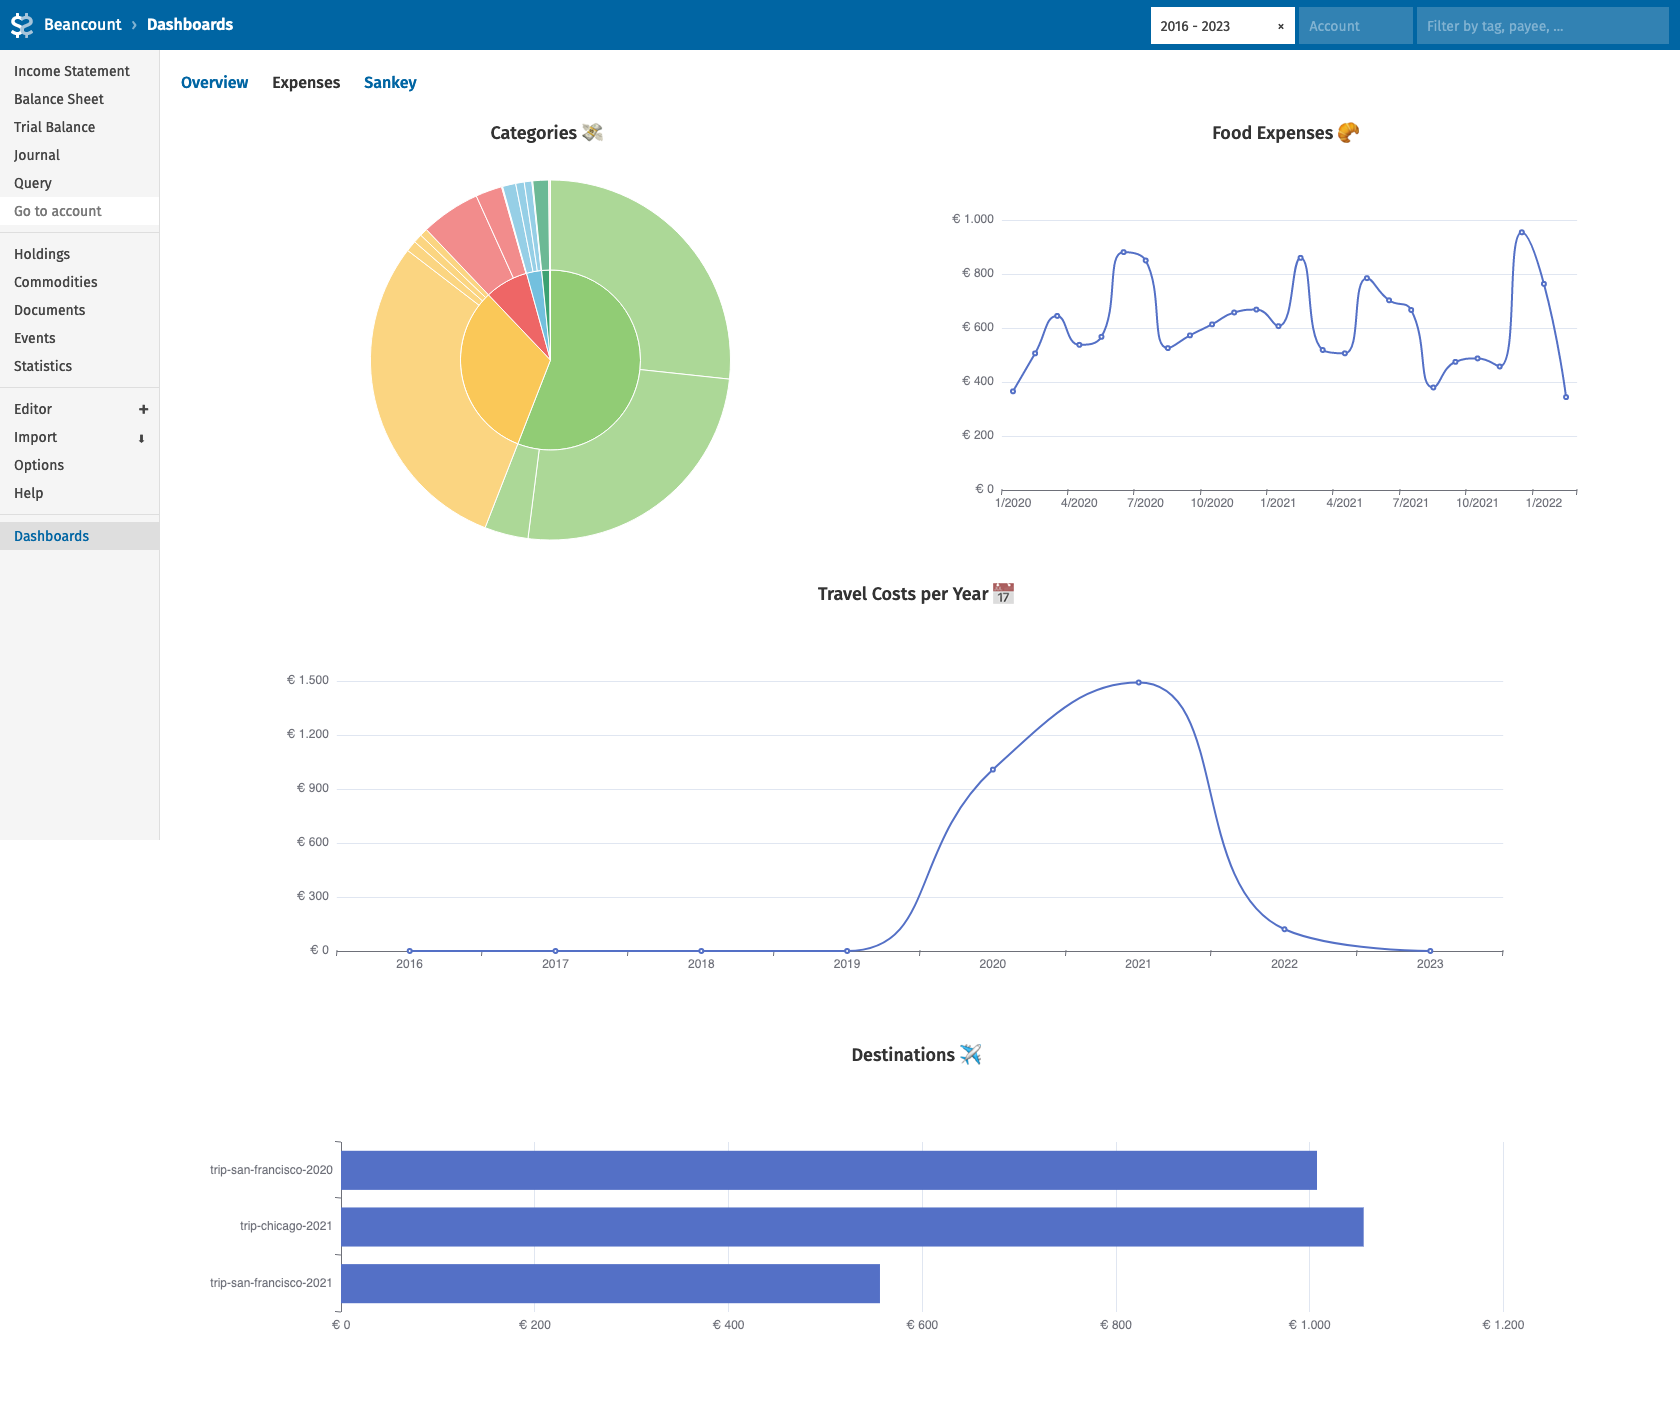
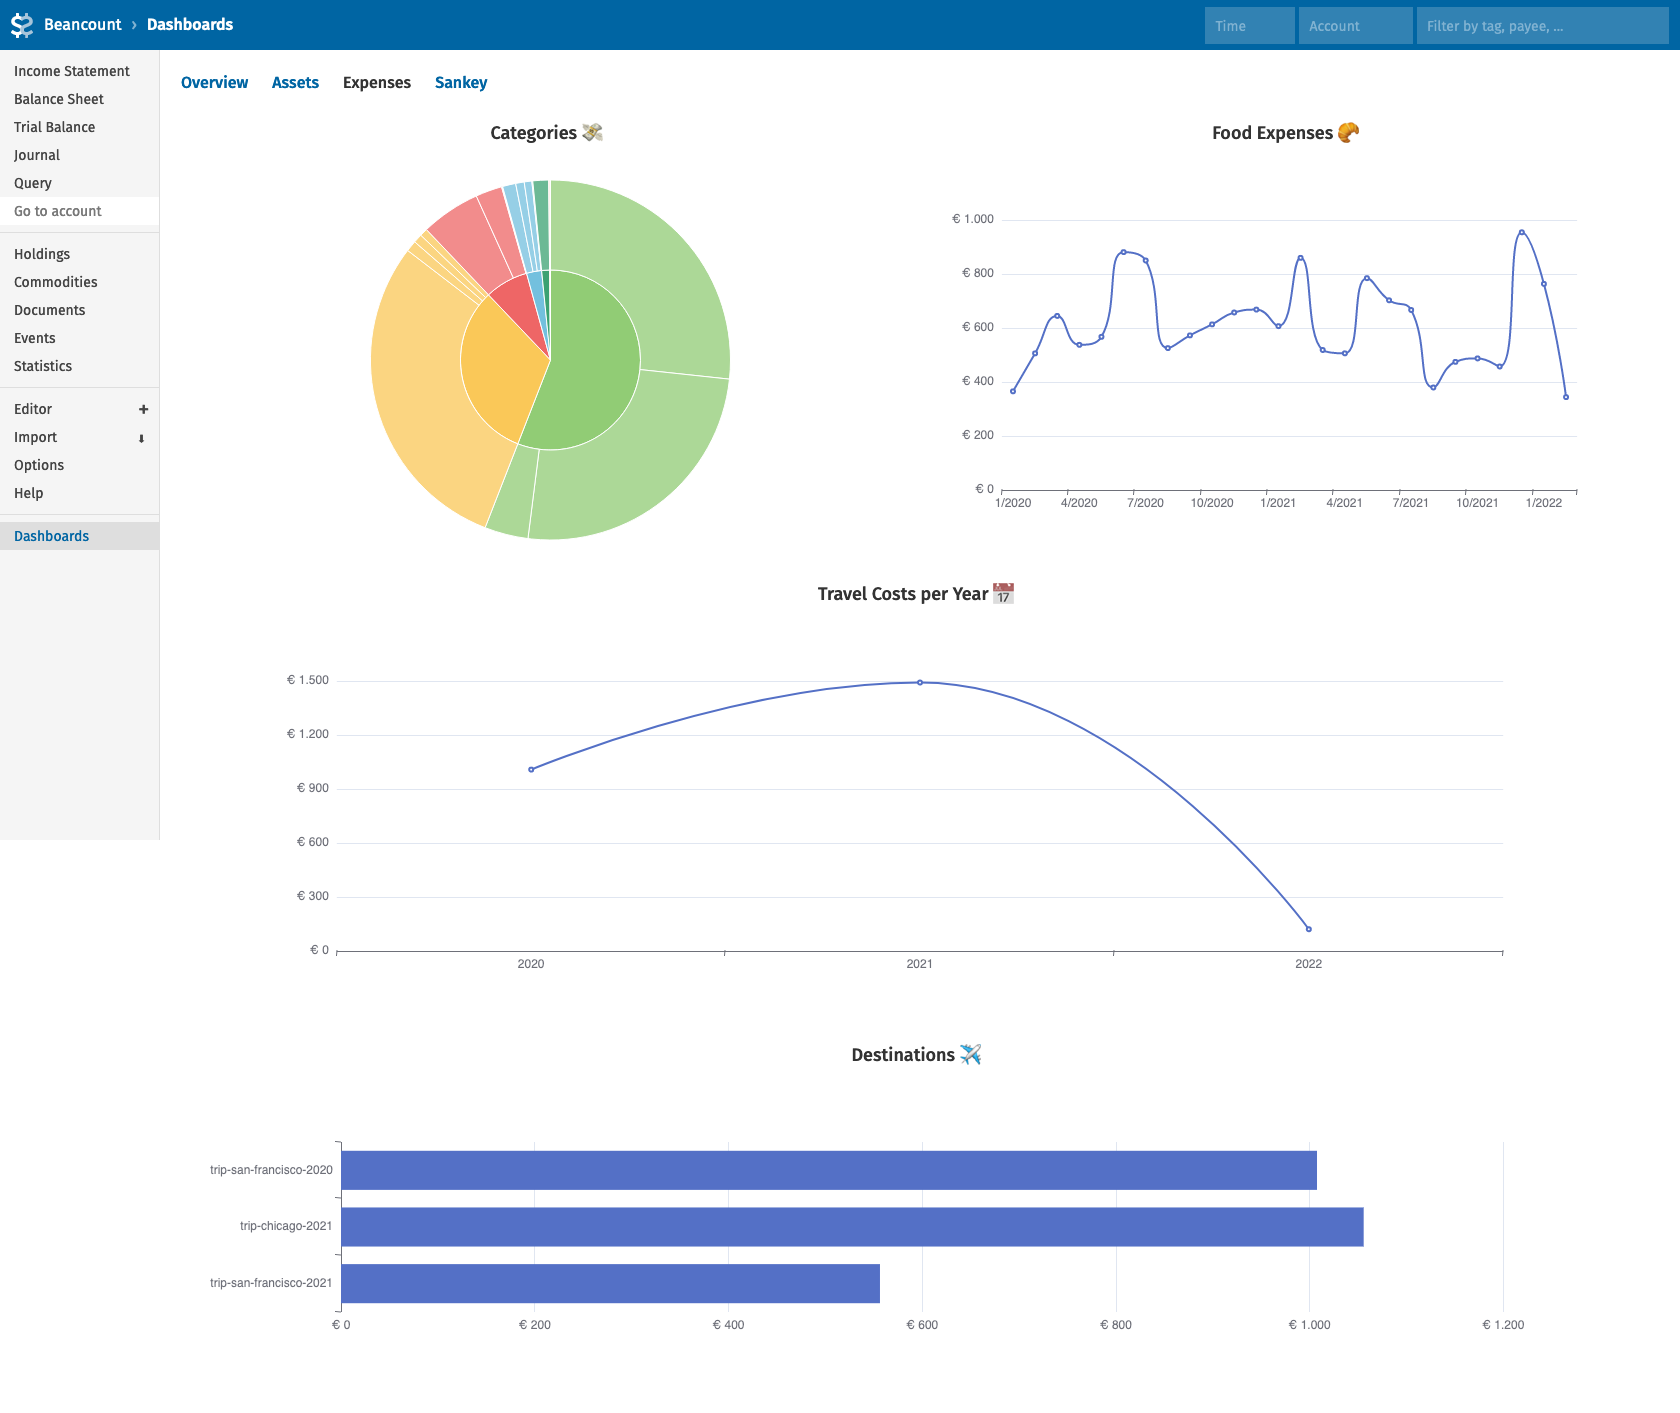
asset and portfolio charts

diff --git a/README.md b/README.md
@@ -2,6 +2,7 @@
 fava-dashboards allows creating custom dashboards in [Fava](https://github.com/beancount/fava).
 
 [![Overview](example/overview.png)](example/overview.png)
+[![Assets](example/assets.png)](example/assets.png)
 [![Expenses](example/expenses.png)](example/expenses.png)
 [![Sankey](example/sankey.png)](example/sankey.png)
 
@@ -68,4 +69,4 @@ Currently it requires only two external dependencies: pyyaml and echarts.
 ## Acknowledgements
 Thanks to Martin Blais and all contributors of [beancount](https://github.com/beancount/beancount),
 Jakob Schnitzer, Dominik Aumayr and all contributors of [Fava](https://github.com/beancount/fava),
-and to all contributors of [Apache ECharts](https://echarts.apache.org).
+and to all contributors of [Apache ECharts](https://echarts.apache.org), [D3.js](https://d3js.org) and [d3-sankey](https://github.com/d3/d3-sankey).
